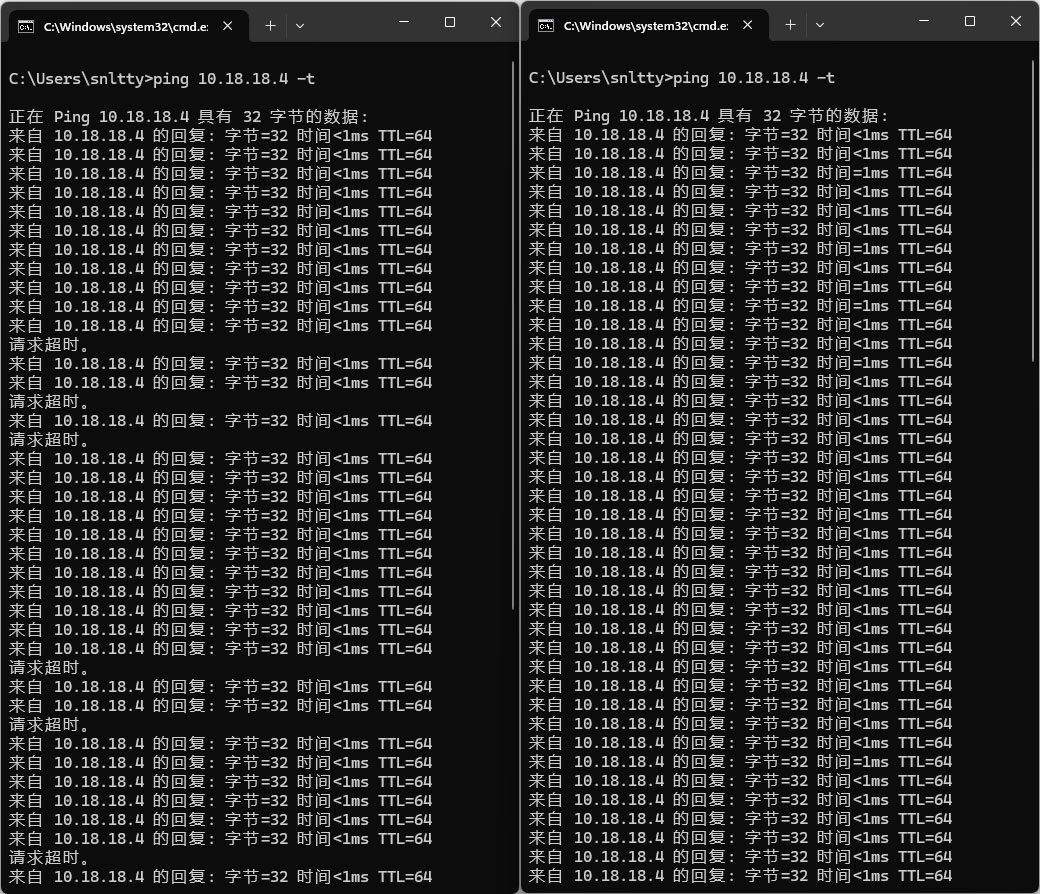
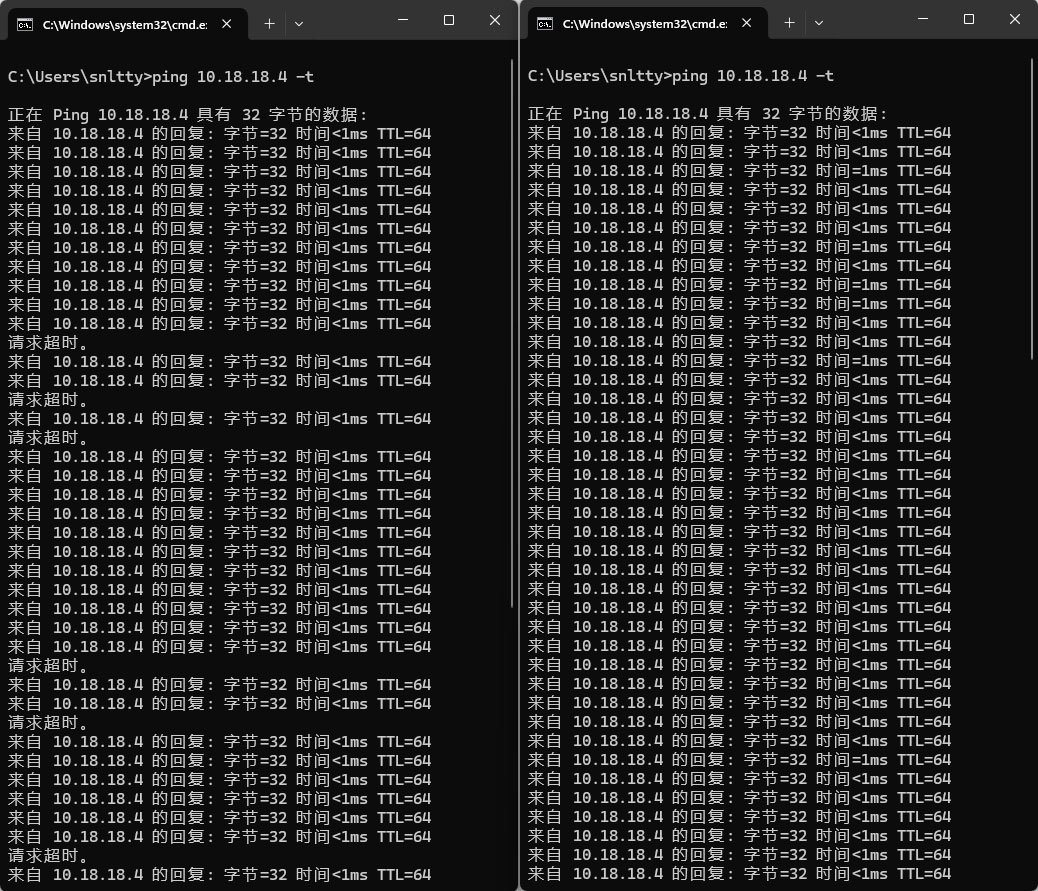
fec

diff --git a/README.md b/README.md
@@ -76,6 +76,14 @@
 ```
 iptables -A INPUT -p udp --dport 18183 -m statistic --mode random --probability 0.1 -j DROP
 iptables -A OUTPUT -p udp --sport 18183 -m statistic --mode random --probability 0.1 -j DROP
+
+nft flush table inet linkerdrop
+nft delete table inet linkerdrop
+nft add table inet linkerdrop
+nft add chain inet linkerdrop input { type filter hook input priority -10 \; }
+nft add chain inet linkerdrop output { type filter hook output priority -10 \; }
+nft add rule inet linkerdrop input udp dport 18226 numgen random mod 100 lt 10 drop
+nft add rule inet linkerdrop output udp sport 18226 numgen random mod 100 lt 10 drop
 ```
 
 <p><img src="./readme/fec.jpg"></p> 